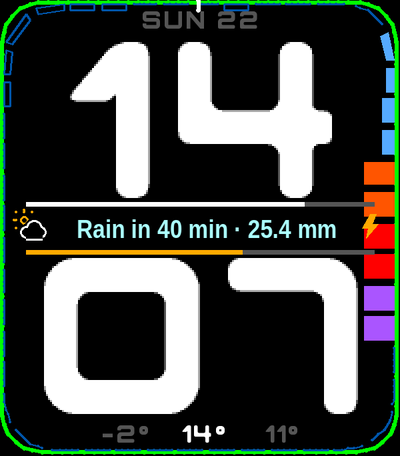
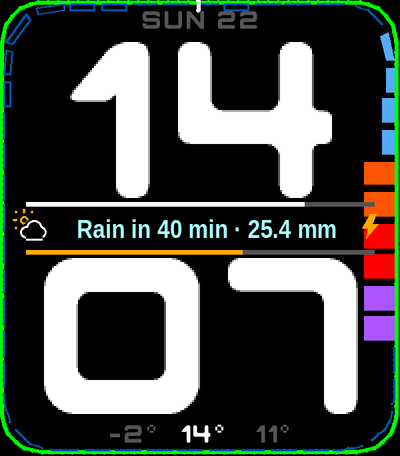
Pixel-clean degree sign in the small font; tighter bottom line
- The degree sign of the 12 px font is redrawn on its pixel grid: a crisp
  4 x 4 ring with cut corners, top aligned with the digits (Orbitron's heavy
  ring blurred into a blob at that size).
- Low, now and high on the bottom line sit closer together (8 px, was 12).

Claude-Session: https://claude.ai/code/session_015HmYPjfyQ65s3v6ZviQxa9

Changed region(s): [[0.24, 0.9211, 0.39, 0.9825], [0.63, 0.9211, 0.75, 0.9825], [0.45, 0.9211, 0.57, 0.9825]]

diff --git a/tools/font/make_digits.py b/tools/font/make_digits.py
@@ -186,3 +186,25 @@ for name in ["zero", "one", "two", "three", "four", "five", "six", "seven", "nin
         pen.closePath()
     glyf[name] = pen.glyph()
 f.save(dst)
+
+# The degree sign is redrawn on the pixel grid of the 12 px small font: a
+# clean 4 x 4 pixel ring with cut corners (Orbitron's heavy ring turns into a
+# blob at that size). One pixel is 1000 / 12 font units; the ring's top lines
+# up with the top of the digits.
+f = TTFont(dst)
+PX = 1000 / 12
+def px_rect(pen, x0, y0, x1, y1):
+    pts = [(x0, y0), (x0, y1), (x1, y1), (x1, y0)]  # clockwise
+    pen.moveTo(tuple(round(v * PX) for v in pts[0]))
+    for p in pts[1:]:
+        pen.lineTo(tuple(round(v * PX) for v in p))
+    pen.closePath()
+pen = TTGlyphPen(None)
+px_rect(pen, 2, 8, 4, 9)   # top
+px_rect(pen, 2, 5, 4, 6)   # bottom
+px_rect(pen, 1, 6, 2, 8)   # left
+px_rect(pen, 4, 6, 5, 8)   # right
+deg = f.getBestCmap()[0xB0]
+f["glyf"][deg] = pen.glyph()
+f["hmtx"][deg] = (round(6 * PX), round(1 * PX))
+f.save(dst)

diff --git a/src/c/draw.c b/src/c/draw.c
@@ -407,7 +407,7 @@ static void draw_text_layer(GContext *ctx, GRect b, const Theme *thp, time_t now
     text_temp(cur, sizeof(cur), now);
     GRect wide = GRect(0, 0, 200, 18);
     if (text_hilo(lo, sizeof(lo), hi, sizeof(hi), now)) {
-      const int GAP = 12;
+      const int GAP = 8;   // between low, now and high
       int wl = graphics_text_layout_get_content_size(lo, g_small_font, wide, GTextOverflowModeFill, GTextAlignmentLeft).w;
       int wc = graphics_text_layout_get_content_size(cur, g_small_font, wide, GTextOverflowModeFill, GTextAlignmentLeft).w;
       int wh = graphics_text_layout_get_content_size(hi, g_small_font, wide, GTextOverflowModeFill, GTextAlignmentLeft).w;
